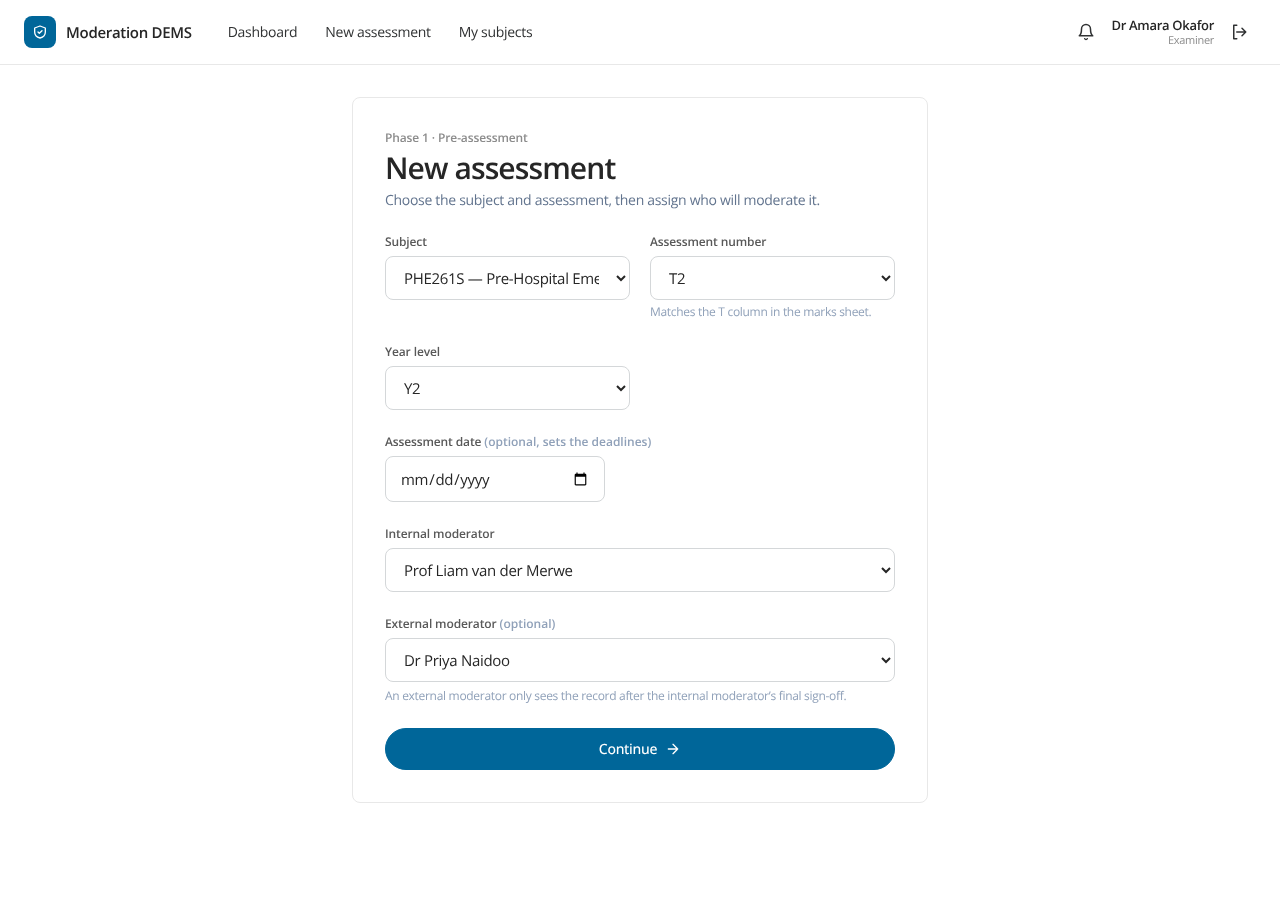
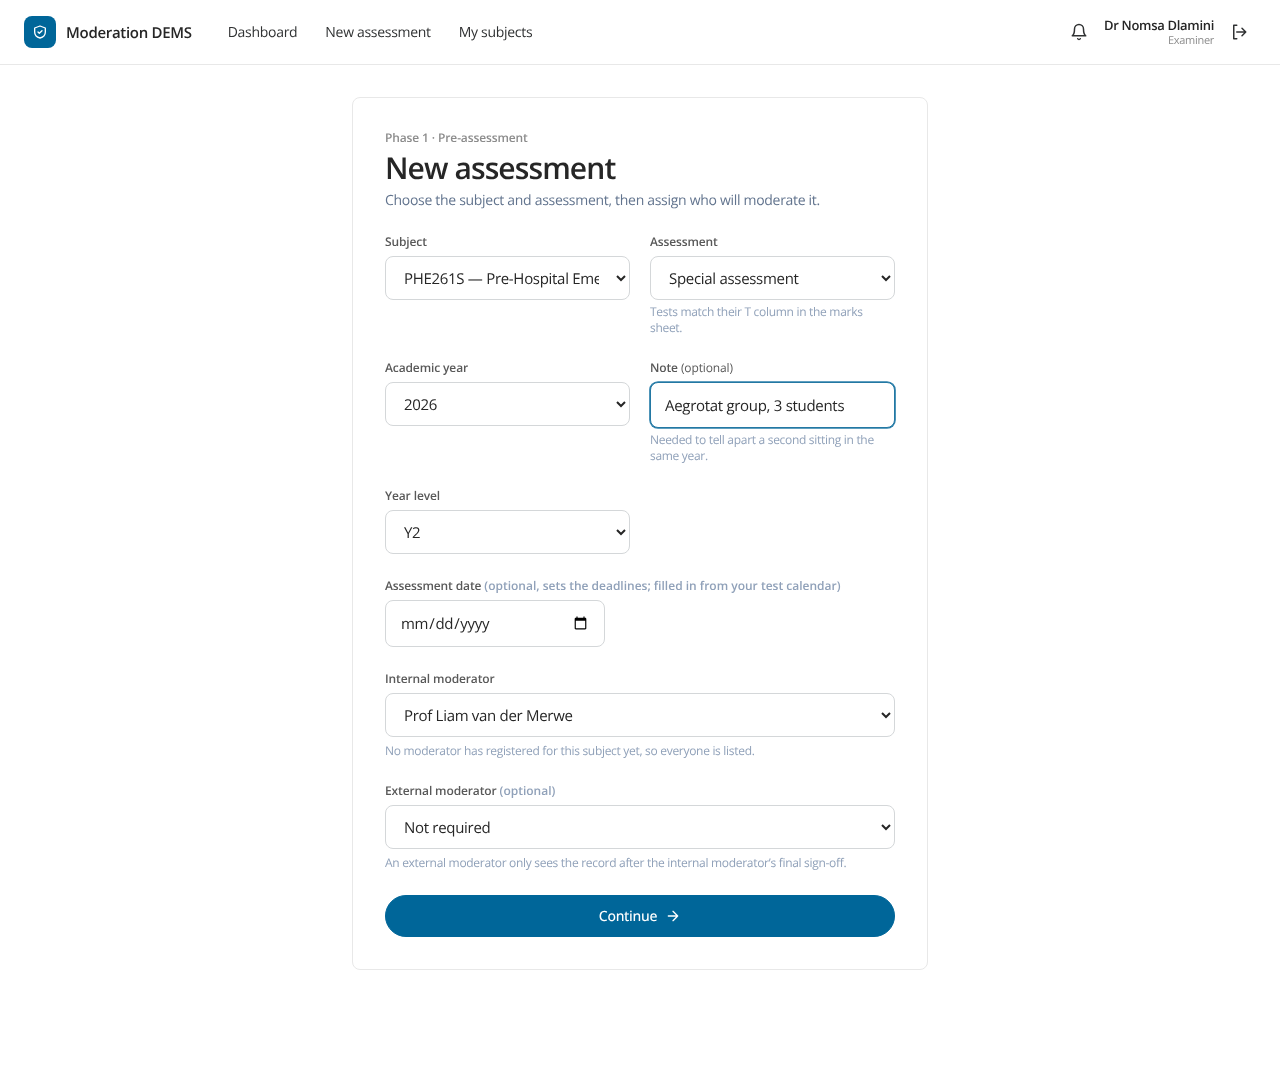
Supplementary and special assessments; tests recur by academic year
Adds SUPP and SPEC beside T1-T7, an academic year and optional note so the
same test can recur every year and several sittings can coexist, and links
their marks-sheet columns by heading aliases.

Claude-Session: https://claude.ai/code/session_01KMAi7XbmWaGJHSxj4HaG4y

diff --git a/resources/js/app.js b/resources/js/app.js
@@ -241,12 +241,12 @@ Alpine.data('section2', (cfg) => ({
         return this.current?.columns ?? [];
     },
     /** Pre-select the test that matches the assessment number ("Test 2" → T2) when it has marks. */
-    linked: /^T[1-9]\d*$/i.test(cfg.number) ? cfg.number.toUpperCase() : null, // assessment number = marks-sheet column
+    linked: cfg.linkedHeaders && cfg.linkedHeaders.length ? cfg.number : null, // the assessment's own marks-sheet column
     linkedFound: false,
     autoPick() {
         this.column = 0;
         const only = this.cols.filter((c) => c.nonBlank > 0);
-        const hit = this.linked ? this.cols.find((c) => c.header.trim().toUpperCase() === this.linked && c.nonBlank > 0) : null;
+        const hit = this.linked ? this.cols.find((c) => cfg.linkedHeaders.includes(c.header.trim().toUpperCase()) && c.nonBlank > 0) : null;
         this.linkedFound = !!hit;
         this.column = hit ? hit.index : this.linked ? 0 : only.length === 1 ? only[0].index : 0;
     },

diff --git a/tests/Feature/LifecycleTest.php b/tests/Feature/LifecycleTest.php
@@ -461,7 +461,7 @@ class LifecycleTest extends TestCase
 
     public function test_assessment_number_is_one_of_t1_to_t7(): void
     {
-        $this->as($this->examiner)->get('/assessments/create')->assertOk()->assertSee('Matches the T column')->assertSee('>T7<', false);
+        $this->as($this->examiner)->get('/assessments/create')->assertOk()->assertSee('Tests match their T column')->assertSee('>T7<', false);
         foreach (['Test 1', 'T8', 't1', ''] as $bad) {
             $this->as($this->examiner)->post('/assessments', ['year_level' => 'Y1', 'subject_id' => $this->subject->id, 'number' => $bad, 'internal_moderator_id' => $this->internal->id])->assertSessionHasErrors('number');
         }
@@ -576,6 +576,35 @@ class LifecycleTest extends TestCase
         $this->assertSame($ok->id, (int) \Illuminate\Support\Facades\DB::table('subject_user')->where('user_id', $this->examiner->id)->where('role', 'EXAMINER')->value('default_internal_moderator_id'));
         $this->as($this->examiner)->get('/my-subjects')->assertOk()->assertSee('Internal moderator for this subject')->assertSee($ok->name);
         $this->as($this->examiner)->get('/assessments/create')->assertOk()->assertSee('\\u0022'.$this->subject->id.'\\u0022:'.$ok->id, false);
+    }
+
+    public function test_supplementary_and_special_assessments_and_yearly_repeats(): void
+    {
+        $base = ['year_level' => 'Y1', 'subject_id' => $this->subject->id, 'internal_moderator_id' => $this->internal->id];
+        $go = fn (array $x) => $this->as($this->examiner)->post('/assessments', $base + $x);
+        $this->as($this->examiner)->get('/assessments/create')->assertOk()->assertSee('Supplementary assessment')->assertSee('Special assessment');
+        $go(['number' => 'T1', 'academic_year' => 2026])->assertRedirect();
+        // the same test may run again in another academic year, but not twice in one
+        $go(['number' => 'T1', 'academic_year' => 2027])->assertRedirect();
+        $go(['number' => 'T1', 'academic_year' => 2026])->assertSessionHas('error');
+        // supplementary and special sittings, with a note to tell several sittings apart
+        $go(['number' => 'SUPP', 'academic_year' => 2026])->assertRedirect();
+        $go(['number' => 'SUPP', 'academic_year' => 2026])->assertSessionHas('error');
+        $go(['number' => 'SPEC', 'academic_year' => 2026, 'label' => 'Aegrotat group A'])->assertRedirect();
+        $go(['number' => 'SPEC', 'academic_year' => 2026, 'label' => 'Aegrotat group B'])->assertRedirect();
+        $go(['number' => 'SPEC', 'academic_year' => 2026, 'label' => 'Aegrotat group B'])->assertSessionHas('error');
+        $go(['number' => 'T9'])->assertSessionHasErrors('number');
+        $supp = Assessment::where('number', 'SUPP')->firstOrFail();
+        $this->assertSame('CSC101 · Supplementary', $supp->title());
+        $this->assertSame('CSC101 · Special (Aegrotat group A)', Assessment::where('label', 'Aegrotat group A')->firstOrFail()->title());
+        $this->assertSame(['T3'], Assessment::make(['number' => 'T3'])->marksHeaders());
+        $this->assertContains('SUPPLEMENTARY', $supp->marksHeaders());
+        $this->as($this->examiner)->get("/assessments/{$supp->id}")->assertOk()->assertSee('Supplementary');
+        // the class-list reader offers supplementary / special columns next to T1…
+        foreach (['T1', 'T7', 'SUPP', 'Supplementary', 'SPEC', 'Special assessment'] as $h) {
+            $this->assertSame(1, preg_match(config('dems.marks_column_pattern'), $h), $h);
+        }
+        $this->assertSame(0, preg_match(config('dems.marks_column_pattern'), 'S_NAME'));
     }
 
     public function test_login_and_pages_render_for_every_stage(): void

diff --git a/resources/views/dashboard.blade.php b/resources/views/dashboard.blade.php
@@ -24,7 +24,7 @@ $tabs = ['ALL' => ['All', $items->count()], 'ACTION' => ['Needs my action', $act
     <section class="card p-6"><p class="kicker mb-3">Upcoming assessments · next 45 days</p>
       <ul class="divide-y divide-[var(--divider)] text-sm">@foreach ($upcoming as $p)
         @php $days = (int) now('UTC')->startOfDay()->diffInDays($p->assessment_date->copy()->startOfDay(), false); $soon = $days <= (int) config('dems.assessment_reminder_days'); $started = $p->started(); @endphp
-        <li class="flex flex-wrap items-center justify-between gap-3 py-2.5"><span><span class="font-semibold">{{ $p->subject->code }} · {{ $p->number }}</span> <span class="text-[var(--ink-2)]">{{ $p->subject->name }}</span></span>
+        <li class="flex flex-wrap items-center justify-between gap-3 py-2.5"><span><span class="font-semibold">{{ $p->subject->code }} · {{ $p->number_label }}</span> <span class="text-[var(--ink-2)]">{{ $p->subject->name }}</span></span>
           <span class="flex items-center gap-3"><span class="rounded-full px-2.5 py-1 text-[11px] font-semibold {{ $soon ? 'bg-amber-500/10 text-amber-700 dark:text-amber-300' : 'bg-[var(--fog)] text-[var(--ink-2)]' }}">{{ $p->assessment_date->format('j M Y') }} · {{ $days === 0 ? 'today' : ($days === 1 ? 'tomorrow' : 'in '.$days.' days') }}</span>
             @if ($started)<span class="text-xs text-emerald-600">Started</span>@else<a href="{{ route('assessments.create', ['subject' => $p->subject_id, 'number' => $p->number]) }}" class="text-xs font-semibold text-accent dark:text-accent-dark">Start in the system →</a>@endif</span></li>
       @endforeach</ul></section>
@@ -71,7 +71,7 @@ $tabs = ['ALL' => ['All', $items->count()], 'ACTION' => ['Needs my action', $act
           class="card group relative block overflow-hidden p-6 transition hover:-translate-y-1 hover:shadow-lift {{ $mine ? 'ring-2 '.$t['ring'] : '' }}">
           <span class="pointer-events-none absolute inset-x-0 top-0 h-28 bg-gradient-to-b {{ $t['wash'] }} to-transparent"></span>
           <div class="relative flex items-start justify-between gap-3"><x-status-badge :status="$a->status" /><x-icon name="arrow-up-right" class="h-5 w-5 text-slate-300 transition group-hover:text-accent" /></div>
-          <div class="relative mt-5"><p class="text-3xl font-semibold tracking-tight">{{ $a->subject->code }}</p><p class="mt-0.5 text-sm font-medium text-slate-700 dark:text-zinc-200">{{ $a->number }}</p><p class="truncate text-sm text-slate-500 dark:text-zinc-400">{{ $a->subject->name }}</p></div>
+          <div class="relative mt-5"><p class="text-3xl font-semibold tracking-tight">{{ $a->subject->code }}</p><p class="mt-0.5 text-sm font-medium text-slate-700 dark:text-zinc-200">{{ $a->number_label }}@if ($a->label !== '') <span class="font-normal text-[var(--ink-3)]">({{ $a->label }})</span>@endif</p><p class="truncate text-sm text-slate-500 dark:text-zinc-400">{{ $a->subject->name }}</p></div>
           <div class="relative mt-3"><x-deadline :a="$a" /></div>
           @if ($a->pass_rate !== null)
             <div class="relative mt-4 flex gap-6 text-sm"><span><span class="kicker block">Pass rate</span><span class="font-semibold tabular-nums">{{ number_format($a->pass_rate, 1) }}%</span></span><span><span class="kicker block">Candidates</span><span class="font-semibold tabular-nums">{{ $a->candidate_count }}</span></span></div>

diff --git a/resources/views/assessments/create.blade.php b/resources/views/assessments/create.blade.php
@@ -17,9 +17,15 @@
   <div class="grid gap-5 sm:grid-cols-2">
     <div><label class="label" for="subject">Subject</label>
       <select id="subject" name="subject_id" required class="field" x-model="subject"><option value="">Select…</option>@foreach ($subjects as $s)<option value="{{ $s->id }}">{{ $s->code }} — {{ $s->name }}</option>@endforeach</select></div>
-    <div><label class="label" for="number">Assessment number</label><select id="number" name="number" required class="field" x-model="number"><option value="">Select…</option>@foreach (config('dems.assessment_numbers') as $n)<option value="{{ $n }}">{{ $n }}</option>@endforeach</select>
-      <p class="mt-1 text-xs text-slate-400">Matches the T column in the marks sheet.</p></div>
+    <div><label class="label" for="number">Assessment</label><select id="number" name="number" required class="field" x-model="number"><option value="">Select…</option>
+        <optgroup label="Tests">@foreach (collect(config('dems.assessment_numbers'))->reject(fn ($n) => array_key_exists($n, config('dems.assessment_labels'))) as $n)<option value="{{ $n }}">{{ $n }}</option>@endforeach</optgroup>
+        <optgroup label="Additional">@foreach (config('dems.assessment_labels') as $n => $l)<option value="{{ $n }}">{{ $l }} assessment</option>@endforeach</optgroup></select>
+      <p class="mt-1 text-xs text-slate-400">Tests match their T column in the marks sheet.</p></div>
   </div>
+  <div class="grid gap-5 sm:grid-cols-2"><div><label class="label" for="academic_year">Academic year</label>
+    <select id="academic_year" name="academic_year" class="field">@foreach (range((int) date('Y') + 1, (int) date('Y') - 2) as $y)<option value="{{ $y }}" @selected((int) old('academic_year', date('Y')) === $y)>{{ $y }}</option>@endforeach</select></div>
+    <div x-show="['SUPP','SPEC'].includes(number)" x-cloak><label class="label" for="label">Note <span class="font-normal">(optional)</span></label><input id="label" name="label" maxlength="80" class="field" value="{{ old('label') }}" placeholder="e.g. Aegrotat group, 3 students">
+      <p class="mt-1 text-xs text-slate-400">Needed to tell apart a second sitting in the same year.</p></div></div>
   <div class="grid gap-5 sm:grid-cols-2"><div><label class="label" for="year_level">Year level</label>
     <select id="year_level" name="year_level" required class="field"><option value="">Select…</option>@foreach (config('moderation_form.levels') as $l)<option value="{{ $l }}" @selected(old('year_level') === $l)>{{ $l }}</option>@endforeach</select></div></div>
   <div><label class="label" for="adate">Assessment date <span class="normal-case tracking-normal text-slate-400">(optional, sets the deadlines; filled in from your test calendar)</span></label>

diff --git a/resources/views/my-subjects.blade.php b/resources/views/my-subjects.blade.php
@@ -28,10 +28,10 @@
                         <div class="mb-3 max-w-sm"><label class="text-xs font-semibold text-[var(--ink-2)]" for="mod-{{ $s->id }}">Internal moderator for this subject</label>
                           <select id="mod-{{ $s->id }}" name="moderators[{{ $s->id }}]" class="field mt-0.5 !py-1.5 text-sm"><option value="">No default</option>@foreach ($opts as $m)<option value="{{ $m->id }}" @selected(($defaults[$s->id] ?? null) == $m->id)>{{ $m->name }}@if ($m->department) · {{ $m->department }}@endif</option>@endforeach</select>
                           <p class="mt-1 text-[11px] text-[var(--ink-3)]">@if ($regIds->isEmpty())No moderator has registered for this subject yet, so everyone is listed. @endif Pre-selected when you start an assessment. Not listed? Ask them to <a href="{{ route('register') }}" class="underline">register</a> as an Internal Moderator.</p></div>
-                        <p class="mb-2 text-xs text-[var(--ink-2)]">Date each test is written. You are reminded {{ (int) config('dems.assessment_reminder_days') }} days before.</p>
+                        <p class="mb-2 text-xs text-[var(--ink-2)]">Date each test or supplementary / special assessment is written. You are reminded {{ (int) config('dems.assessment_reminder_days') }} days before.</p>
                         <div class="grid grid-cols-2 gap-2 sm:grid-cols-4">
                           @foreach (config('dems.assessment_numbers') as $n)
-                            <label class="text-xs font-semibold text-[var(--ink-2)]">{{ $n }}<input type="date" name="plans[{{ $s->id }}][{{ $n }}]" value="{{ $plans[$s->id][$n] ?? '' }}" class="field mt-0.5 !px-2 !py-1.5 text-xs"></label>
+                            <label class="text-xs font-semibold text-[var(--ink-2)]">{{ config('dems.assessment_labels.'.$n, $n) }}<input type="date" name="plans[{{ $s->id }}][{{ $n }}]" value="{{ $plans[$s->id][$n] ?? '' }}" class="field mt-0.5 !px-2 !py-1.5 text-xs"></label>
                           @endforeach
                         </div>
                       </div>

diff --git a/app/Services/Workflow.php b/app/Services/Workflow.php
@@ -70,13 +70,16 @@ class Workflow
         }
         $external = $ext ? (User::where('id', $ext)->withRole(Role::ExternalModerator)->where('active', true)->first()
             ?? throw new WorkflowException('Choose a valid external moderator.')) : null;
-        if (Assessment::where('subject_id', $subject->id)->where('number', $in['number'])->exists()) {
-            throw WorkflowException::conflict("{$subject->code} already has an assessment called “{$in['number']}”.");
+        $year = (int) ($in['academic_year'] ?? 0) ?: (int) substr((string) ($in['assessment_date'] ?? ''), 0, 4) ?: (int) date('Y');
+        $label = trim((string) ($in['label'] ?? ''));
+        if (Assessment::where('subject_id', $subject->id)->where('number', $in['number'])->where('academic_year', $year)->where('label', $label)->exists()) {
+            $name = config('dems.assessment_labels.'.$in['number'], $in['number']);
+            throw WorkflowException::conflict("{$subject->code} already has {$name}".($label !== '' ? " ({$label})" : '')." for {$year}. For another group or sitting, add a note to tell them apart.");
         }
 
-        return DB::transaction(function () use ($user, $subject, $internal, $external, $in, $meta) {
+        return DB::transaction(function () use ($user, $subject, $internal, $external, $in, $meta, $year, $label) {
             $a = Assessment::create([
-                'subject_id' => $subject->id, 'number' => $in['number'], 'examiner_id' => $user->id,
+                'subject_id' => $subject->id, 'number' => $in['number'], 'academic_year' => $year, 'label' => $label, 'examiner_id' => $user->id,
                 'internal_moderator_id' => $internal->id, 'external_moderator_id' => $external?->id, 'assessment_date' => ! empty($in['assessment_date']) ? $in['assessment_date'] : null, 'year_level' => $in['year_level'] ?? null,
                 'status' => S::Draft,
             ]);

diff --git a/database/migrations/2026_10_15_000012_assessment_year_and_label.php b/database/migrations/2026_10_15_000012_assessment_year_and_label.php
@@ -1,0 +1,36 @@
+<?php
+
+use Illuminate\Database\Migrations\Migration;
+use Illuminate\Database\Schema\Blueprint;
+use Illuminate\Support\Facades\DB;
+use Illuminate\Support\Facades\Schema;
+
+return new class extends Migration
+{
+    public function up(): void
+    {
+        // The same test (T1…) recurs every year, and supplementary / special sittings can repeat: identify an
+        // assessment by subject + number + academic year + an optional note (e.g. "Aegrotat group").
+        Schema::table('assessments', function (Blueprint $t) {
+            $t->unsignedSmallInteger('academic_year')->default(0);
+            $t->string('label', 80)->default('');
+        });
+        foreach (DB::table('assessments')->select('id', 'created_at', 'assessment_date')->get() as $a) {
+            $y = (int) substr((string) ($a->assessment_date ?: $a->created_at), 0, 4);
+            DB::table('assessments')->where('id', $a->id)->update(['academic_year' => $y ?: (int) date('Y')]);
+        }
+        Schema::table('assessments', function (Blueprint $t) {
+            $t->dropUnique(['subject_id', 'number']);
+            $t->unique(['subject_id', 'number', 'academic_year', 'label']);
+        });
+    }
+
+    public function down(): void
+    {
+        Schema::table('assessments', function (Blueprint $t) {
+            $t->dropUnique(['subject_id', 'number', 'academic_year', 'label']);
+            $t->unique(['subject_id', 'number']);
+            $t->dropColumn(['academic_year', 'label']);
+        });
+    }
+};

diff --git a/resources/views/assessments/panels/section2.blade.php b/resources/views/assessments/panels/section2.blade.php
@@ -5,7 +5,7 @@ $marks = $a->latestAttachment($AK::Marks);
 $samples = $a->attachmentsOf($AK::SampleScript)->map(fn ($s) => ['id' => $s->id, 'filename' => $s->filename])->all();
 $feedback = $a->records->where('decision', 'REVISION_REQUESTED')->where('stage', '!=', $MS::PreModeration)->last();
 @endphp
-<div x-data="section2(@js(['id' => $a->id, 'number' => $a->number, 'subjectCode' => $a->subject->code, 'form' => $a->s2_examiner ?? ['registered' => null, 'type_of_assessment' => '', 'answers' => collect(config('moderation_form.s2_examiner_questions'))->map(fn () => '')->all()], 'marksId' => $marks?->id, 'marksName' => $marks?->filename, 'samples' => $samples]))" @signed="sig = $event.detail" class="space-y-6">
+<div x-data="section2(@js(['id' => $a->id, 'number' => $a->number_label, 'linkedHeaders' => $a->marksHeaders(), 'subjectCode' => $a->subject->code, 'form' => $a->s2_examiner ?? ['registered' => null, 'type_of_assessment' => '', 'answers' => collect(config('moderation_form.s2_examiner_questions'))->map(fn () => '')->all()], 'marksId' => $marks?->id, 'marksName' => $marks?->filename, 'samples' => $samples]))" @signed="sig = $event.detail" class="space-y-6">
   @if ($feedback)
     <x-notice tone="warn" title="Returned by {{ $feedback->reviewer->name }}"><p class="whitespace-pre-wrap">{{ $feedback->comments }}</p><p class="mt-1 text-xs opacity-70">{{ $feedback->created_at->utc()->format('j M Y, H:i') }} UTC</p></x-notice>
   @endif

diff --git a/resources/views/assessments/panels/section1.blade.php b/resources/views/assessments/panels/section1.blade.php
@@ -29,7 +29,7 @@ $feedback = $a->records->where('stage', ModerationStage::PreModeration)->where('
     <p class="mt-1 text-sm text-slate-500 dark:text-zinc-400">These fields appear on the official moderation report. Subject, assessment number and moderators are taken from the record.</p>
     <dl class="card-soft mt-5 grid gap-x-6 gap-y-2 p-4 text-sm sm:grid-cols-3">
       <div><dt class="kicker">Subject</dt><dd class="font-medium">{{ $a->subject->code }} — {{ $a->subject->name }}</dd></div>
-      <div><dt class="kicker">Assessment no.</dt><dd class="font-medium">{{ $a->number }}</dd></div>
+      <div><dt class="kicker">Assessment no.</dt><dd class="font-medium">{{ $a->number_label }}{{ $a->label !== '' ? ' ('.$a->label.')' : '' }}</dd></div>
       <div><dt class="kicker">Examiner</dt><dd class="font-medium">{{ $a->examiner->name }}</dd></div>
       <div><dt class="kicker">Internal moderator</dt><dd class="font-medium">{{ $a->internalModerator->name }}</dd></div>
       <div><dt class="kicker">External moderator</dt><dd class="font-medium">{{ $a->externalModerator?->name ?? 'Not required' }}</dd></div>

diff --git a/config/dems.php b/config/dems.php
@@ -18,7 +18,13 @@ return [
     'max_marks_rows' => 20000,
 
     // The assessment number is one of these; it is linked to the column of the same name in the marks sheet (class list).
-    'assessment_numbers' => ['T1', 'T2', 'T3', 'T4', 'T5', 'T6', 'T7'],
+    'assessment_numbers' => ['T1', 'T2', 'T3', 'T4', 'T5', 'T6', 'T7', 'SUPP', 'SPEC'],
+    // Supplementary and special assessments are moderated exactly like tests; they just carry a different name.
+    'assessment_labels' => ['SUPP' => 'Supplementary', 'SPEC' => 'Special'],
+    // Column headings in the marks sheet that belong to each assessment (T3 → "T3"; the others may use any of these).
+    'marks_aliases' => ['SUPP' => ['SUPP', 'SUPPLEMENTARY', 'SUP'], 'SPEC' => ['SPEC', 'SPECIAL', 'SPECIAL ASSESSMENT']],
+    // Headings the class-list reader offers as mark columns.
+    'marks_column_pattern' => '/^(T\d+|SUPP\w*|SUP\d*|SPEC\w*|SPECIAL.*)$/i',
 
     // Moderation windows around the assessment date.
     'pre_moderation_days' => 14,   // pre-moderation must be finished this many days BEFORE the assessment

diff --git a/app/Http/Controllers/AssessmentController.php b/app/Http/Controllers/AssessmentController.php
@@ -30,6 +30,8 @@ class AssessmentController extends Controller
             'internal_moderator_id' => ['required', 'integer'],
             'external_moderator_id' => ['nullable', 'integer'],
             'assessment_date' => ['nullable', 'date'],
+            'academic_year' => ['nullable', 'integer', 'between:2000,2100'],
+            'label' => ['nullable', 'string', 'max:80'],
             'year_level' => ['required', \Illuminate\Validation\Rule::in(config('moderation_form.levels'))],
         ], ['number.required' => 'Choose the assessment number.', 'number.in' => 'Choose T1 to T7.', 'year_level.required' => 'Choose the year level.', 'year_level.in' => 'Choose Y0 to Y4.', 'internal_moderator_id.required' => 'Choose an internal moderator.']);
         $a = $workflow->create($request->user(), $data, $this->meta($request));

diff --git a/resources/views/assessments/partials/form-readonly.blade.php b/resources/views/assessments/partials/form-readonly.blade.php
@@ -14,7 +14,7 @@ $kv = fn ($k, $v) => '<div><dt class="kicker">'.e($k).'</dt><dd class="mt-0.5 fo
   <p class="kicker">Section 1 · Pre-assessment</p><h2 class="mt-1 text-xl font-semibold">Assessment details & types of questions</h2>
   <dl class="mt-4 grid gap-4 text-sm sm:grid-cols-3">
     {!! $kv('Assessment', ($f['periods'][$s1e['period'] ?? ''] ?? '').' '.($s1e['year'] ?? '')) !!}
-    {!! $kv('Assessment no.', $a->number) !!}
+    {!! $kv('Assessment no.', $a->number_label.($a->label !== '' ? ' ('.$a->label.')' : '')) !!}
     {!! $kv('Assessment date', ! empty($s1e['assessment_date']) ? \Illuminate\Support\Carbon::parse($s1e['assessment_date'])->format('d/m/Y') : null) !!}
     {!! $kv('HEQF level of subject', $s1e['heqf_level'] ?? null) !!}
     {!! $kv('Level of subject', $s1e['subject_level'] ?? null) !!}
